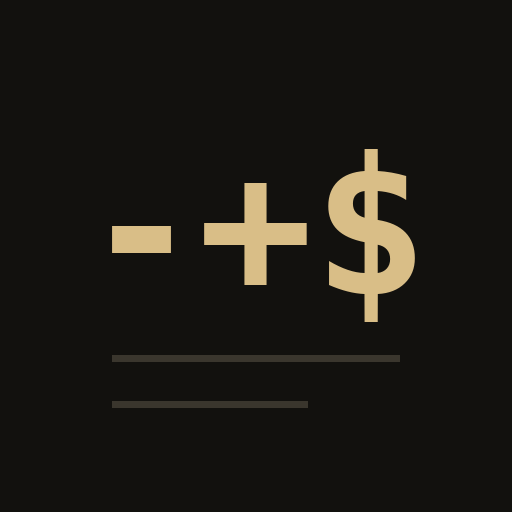
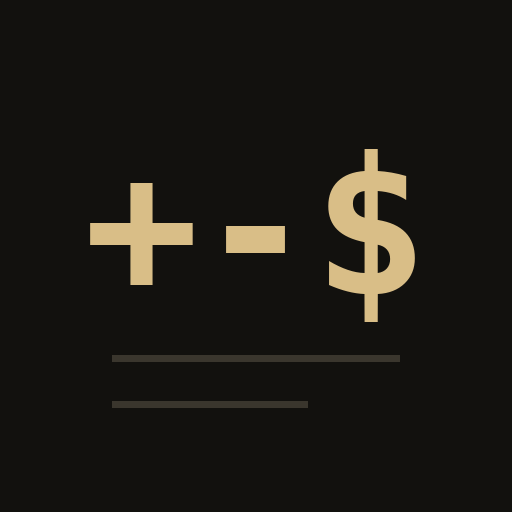
Add files via upload

Changed region(s): [[0.1562, 0.3438, 0.625, 0.5625]]

diff --git a/index.html b/index.html
@@ -3,12 +3,12 @@
 <head>
 <meta charset="utf-8">
 <meta name="viewport" content="width=device-width, initial-scale=1, viewport-fit=cover">
-<title>-+$</title>
+<title>+-$</title>
 
 <meta name="theme-color" content="#12110E">
 <meta name="apple-mobile-web-app-capable" content="yes">
 <meta name="apple-mobile-web-app-status-bar-style" content="black-translucent">
-<meta name="apple-mobile-web-app-title" content="-+$">
+<meta name="apple-mobile-web-app-title" content="+-$">
 <link rel="manifest" href="./manifest.json">
 <link rel="apple-touch-icon" href="./icons/apple-touch-icon.png">
 
@@ -24,7 +24,7 @@
 <section id="login" class="login" hidden>
   <div class="login__inner">
     <p class="eyebrow">Darbo apskaita</p>
-    <h1 class="login__title">-+$</h1>
+    <h1 class="login__title">+-$</h1>
     <form id="login-form" class="stack">
       <label class="field">
         <span class="field__label">El. paštas</span>

diff --git a/sw.js b/sw.js
@@ -1,5 +1,5 @@
 // Pakeitus failus, pakelk versijos numerį — tada telefonas pasiims naują versiją.
-const CACHE = "minus-plus-v2";
+const CACHE = "minus-plus-v3";
 
 const ASSETS = [
   "./",
